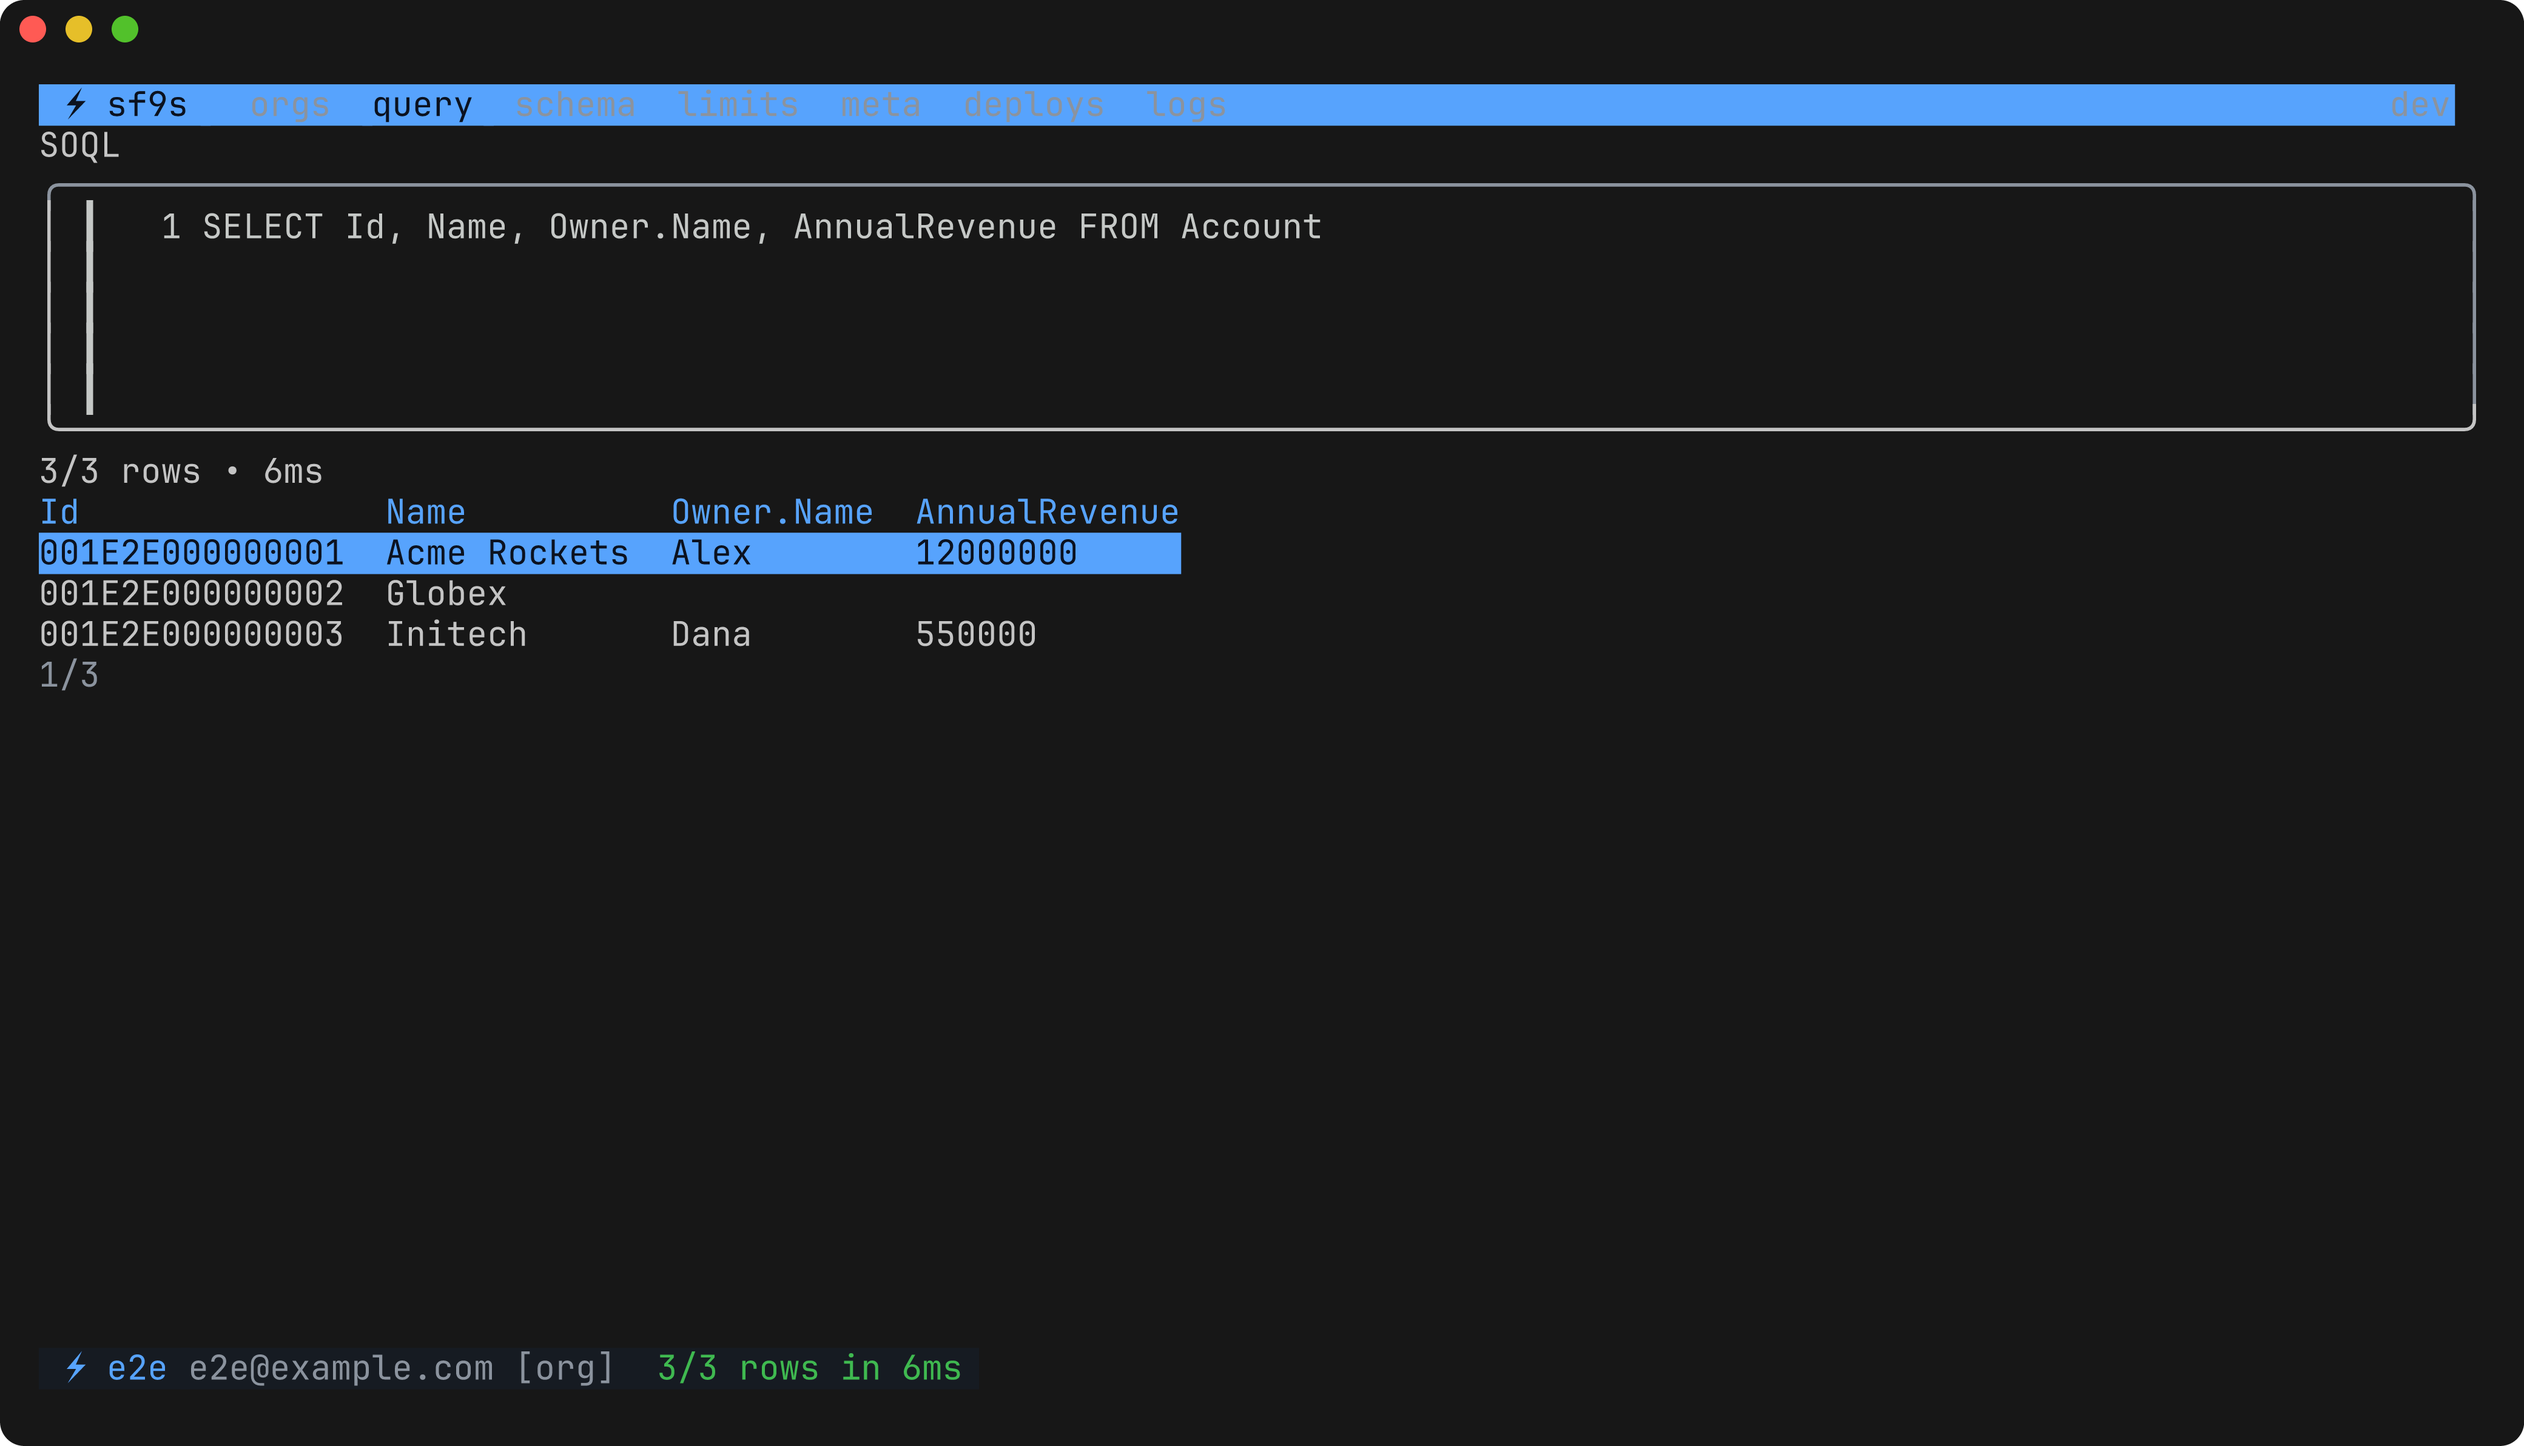
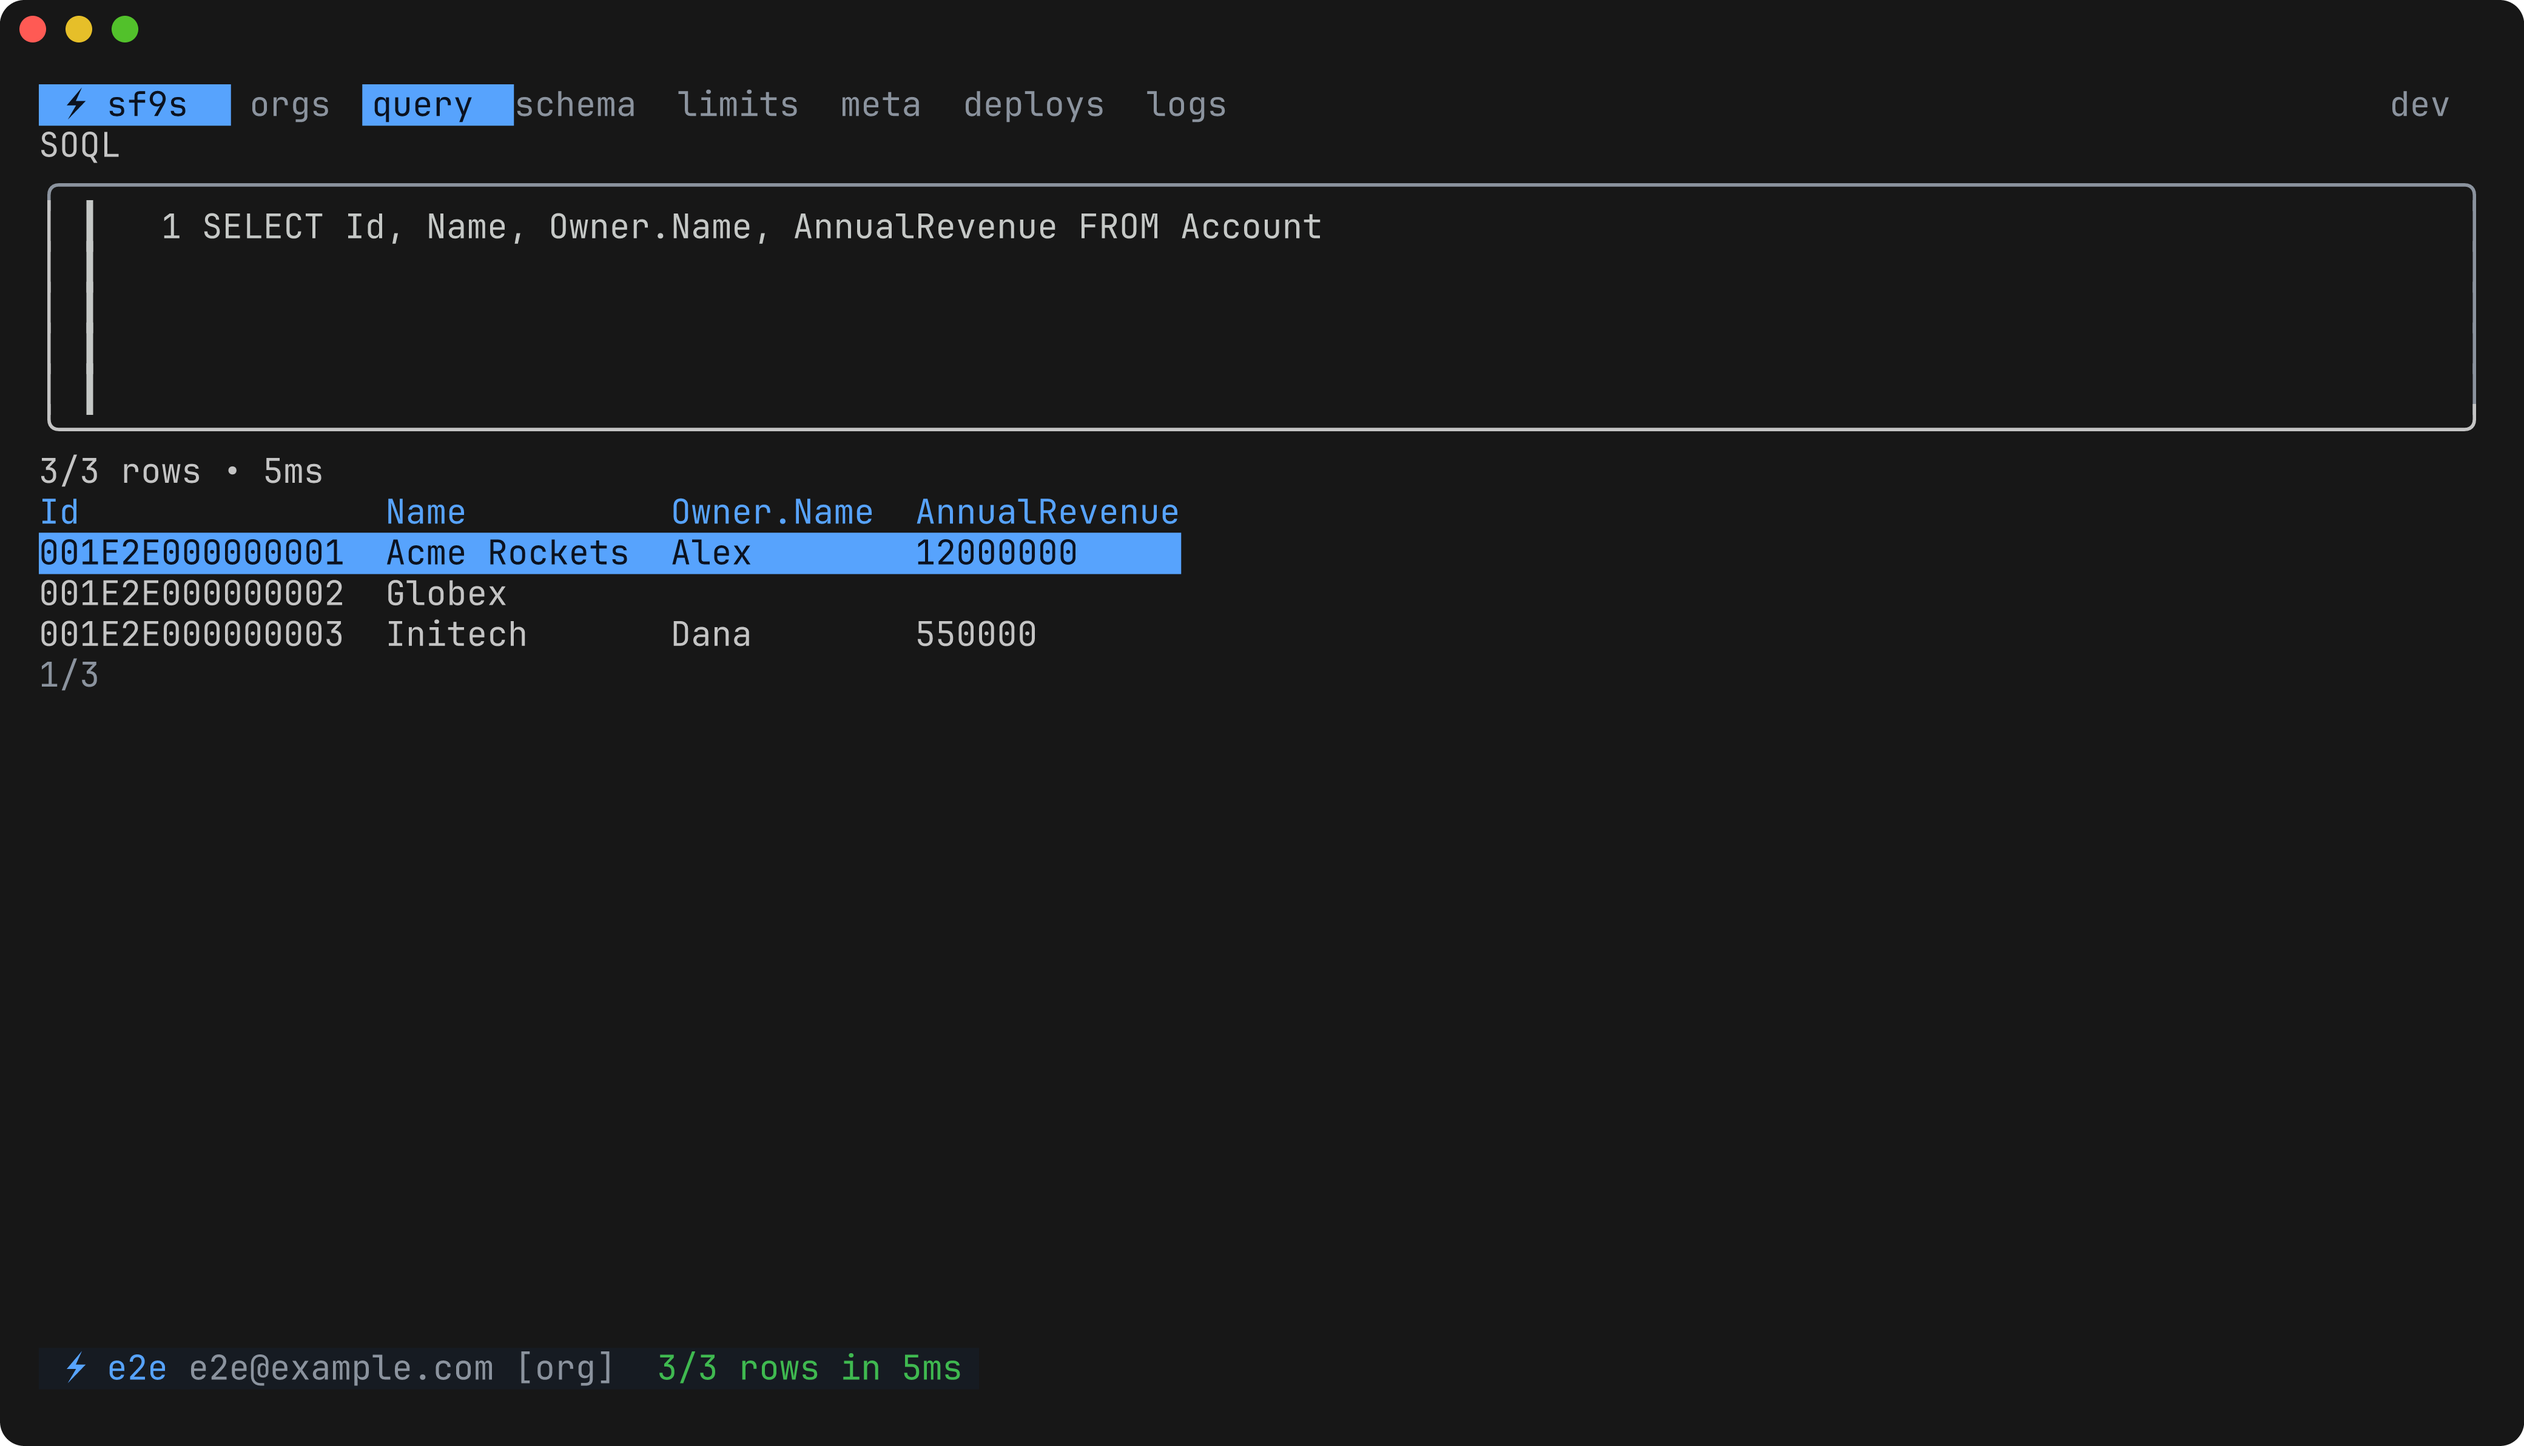
feat: keep results visible under the completion popup; refresh screenshots

Changed region(s): [[0.1875, 0.031, 0.9998, 0.0931], [0.0937, 0.031, 0.1562, 0.0931]]

diff --git a/internal/ui/query.go b/internal/ui/query.go
@@ -12,6 +12,7 @@ import (
 
 	"github.com/charmbracelet/bubbles/textarea"
 	tea "github.com/charmbracelet/bubbletea"
+	"github.com/charmbracelet/lipgloss"
 
 	"github.com/razkevich/sf9s/internal/api"
 	"github.com/razkevich/sf9s/internal/config"
@@ -691,12 +692,19 @@ func (v *queryView) View(width, height int) string {
 	}
 	editor := editorBox.Width(width - 2).Render(v.editor.View())
 
+	tableH := max(height-edH-4, 3)
 	if v.popup.open() {
+		// Keep results visible under the suggestions when there's room.
 		popup := v.popup.View(width)
-		return head + "\n" + editor + "\n" + popup
+		popupH := lipgloss.Height(popup)
+		remaining := height - edH - 3 - popupH
+		if remaining < 4 {
+			return head + "\n" + editor + "\n" + popup
+		}
+		v.table.SetSize(width, remaining)
+		return head + "\n" + editor + "\n" + popup + "\n" + v.table.View()
 	}
 
-	tableH := max(height-edH-4, 3)
 	v.table.SetSize(width, tableH)
 	return head + "\n" + editor + "\n" + resultHead + "\n" + v.table.View()
 }

diff --git a/e2e/mockorg/mockorg.go b/e2e/mockorg/mockorg.go
@@ -100,6 +100,10 @@ func New() *Server {
 			{"name":"Id","label":"Record ID","type":"id"},
 			{"name":"Name","label":"Name","type":"string","length":255,"nillable":false,"createable":true,"updateable":true},
 			{"name":"OwnerId","label":"Owner ID","type":"reference","referenceTo":["User"],"relationshipName":"Owner"},
+			{"name":"ParentId","label":"Parent Account ID","type":"reference","referenceTo":["Account"],"relationshipName":"Parent"},
+			{"name":"Phone","label":"Account Phone","type":"phone","length":40},
+			{"name":"PhotoUrl","label":"Photo URL","type":"url","length":1024},
+			{"name":"AnnualRevenue","label":"Annual Revenue","type":"currency"},
 			{"name":"Industry","label":"Industry","type":"picklist","nillable":true,"createable":true,"updateable":true,"picklistValues":[{"label":"Technology","value":"Technology","active":true},{"label":"Energy","value":"Energy","active":true}]}]}`, name, name)
 	})
 

diff --git a/README.md b/README.md
@@ -54,7 +54,7 @@ schema is still downloading is answered when it arrives.
 
 | view | what you get |
 |---|---|
-| **orgs** | every authenticated org: type, status, scratch expiry, defaults. `o` opens it in the browser (logged in via frontdoor), `y` copies an access token, `Y` the instance URL |
+| **orgs** | every authenticated org: type, status, scratch expiry, defaults. `o` opens it in the browser (via `sf org open`), `y` copies an access token, `Y` the instance URL |
 | **query** | multi-line SOQL editor with **autocomplete** (`tab`), history (`ctrl+p/n`), saved-query library (`ctrl+s`), Tooling API toggle (`ctrl+t`), pagination (`m`), row inspector (`enter`), copy cell/row (`y`/`Y`), CSV/JSON export (`e`/`E`) |
 | **schema** | fuzzy-searchable objects → fields with types, reference targets, picklist values; `c` builds a SELECT for the query view, `y` copies API names |
 | **limits** | org limits sorted by usage, with thresholds that go amber at 75% and red at 90% |
